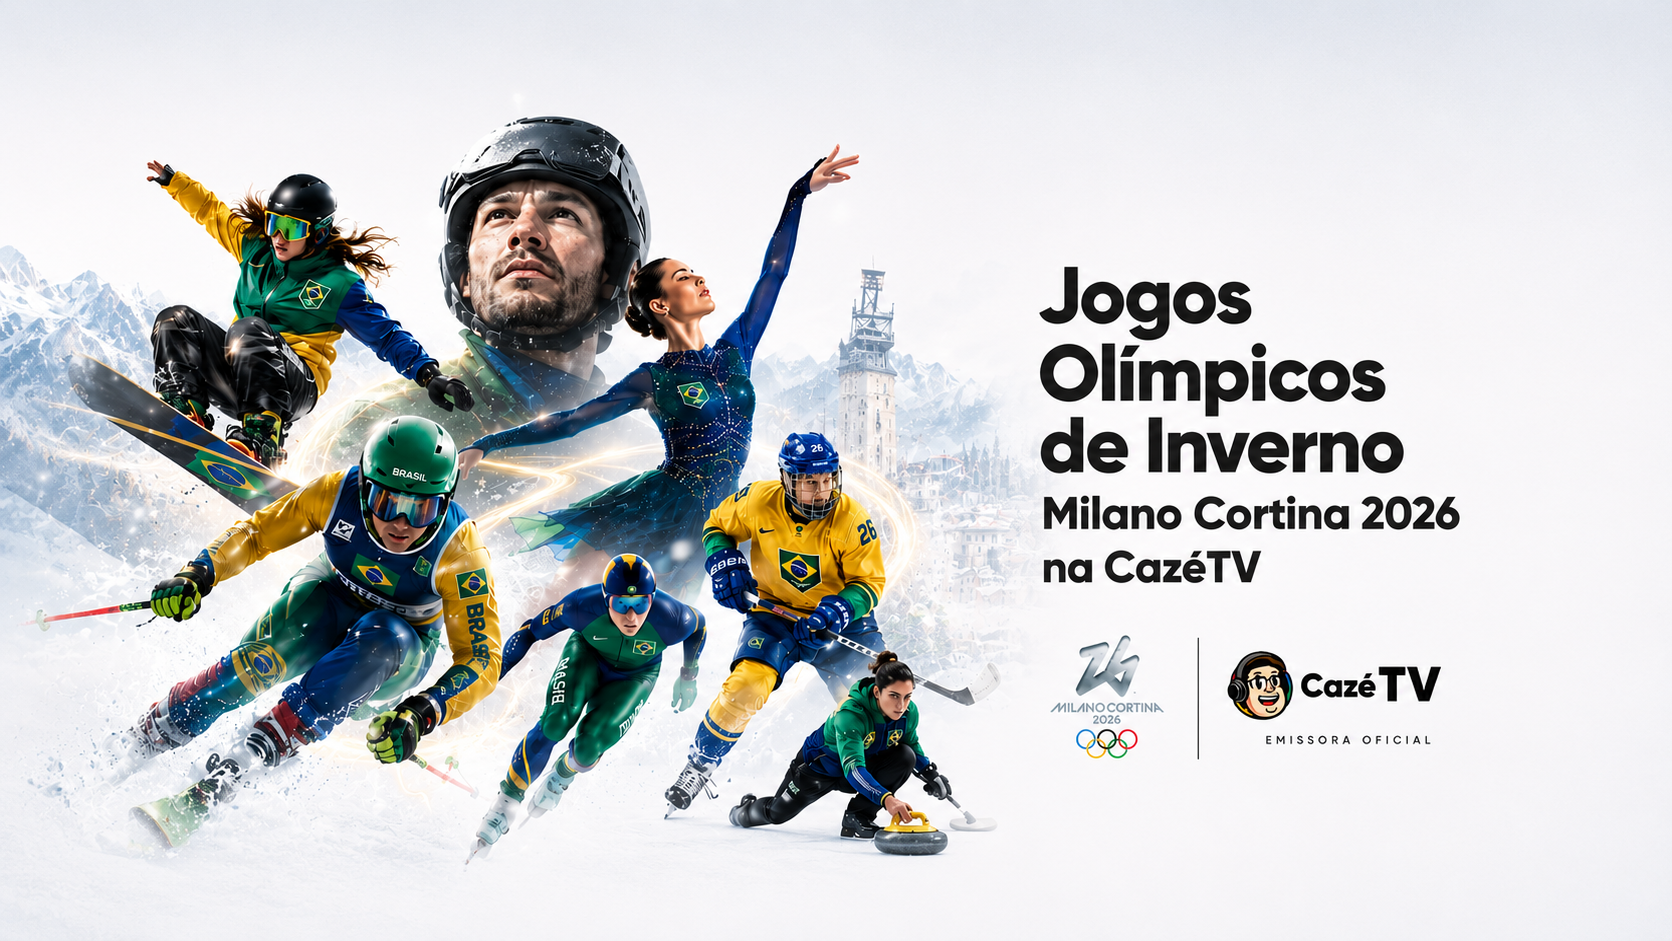
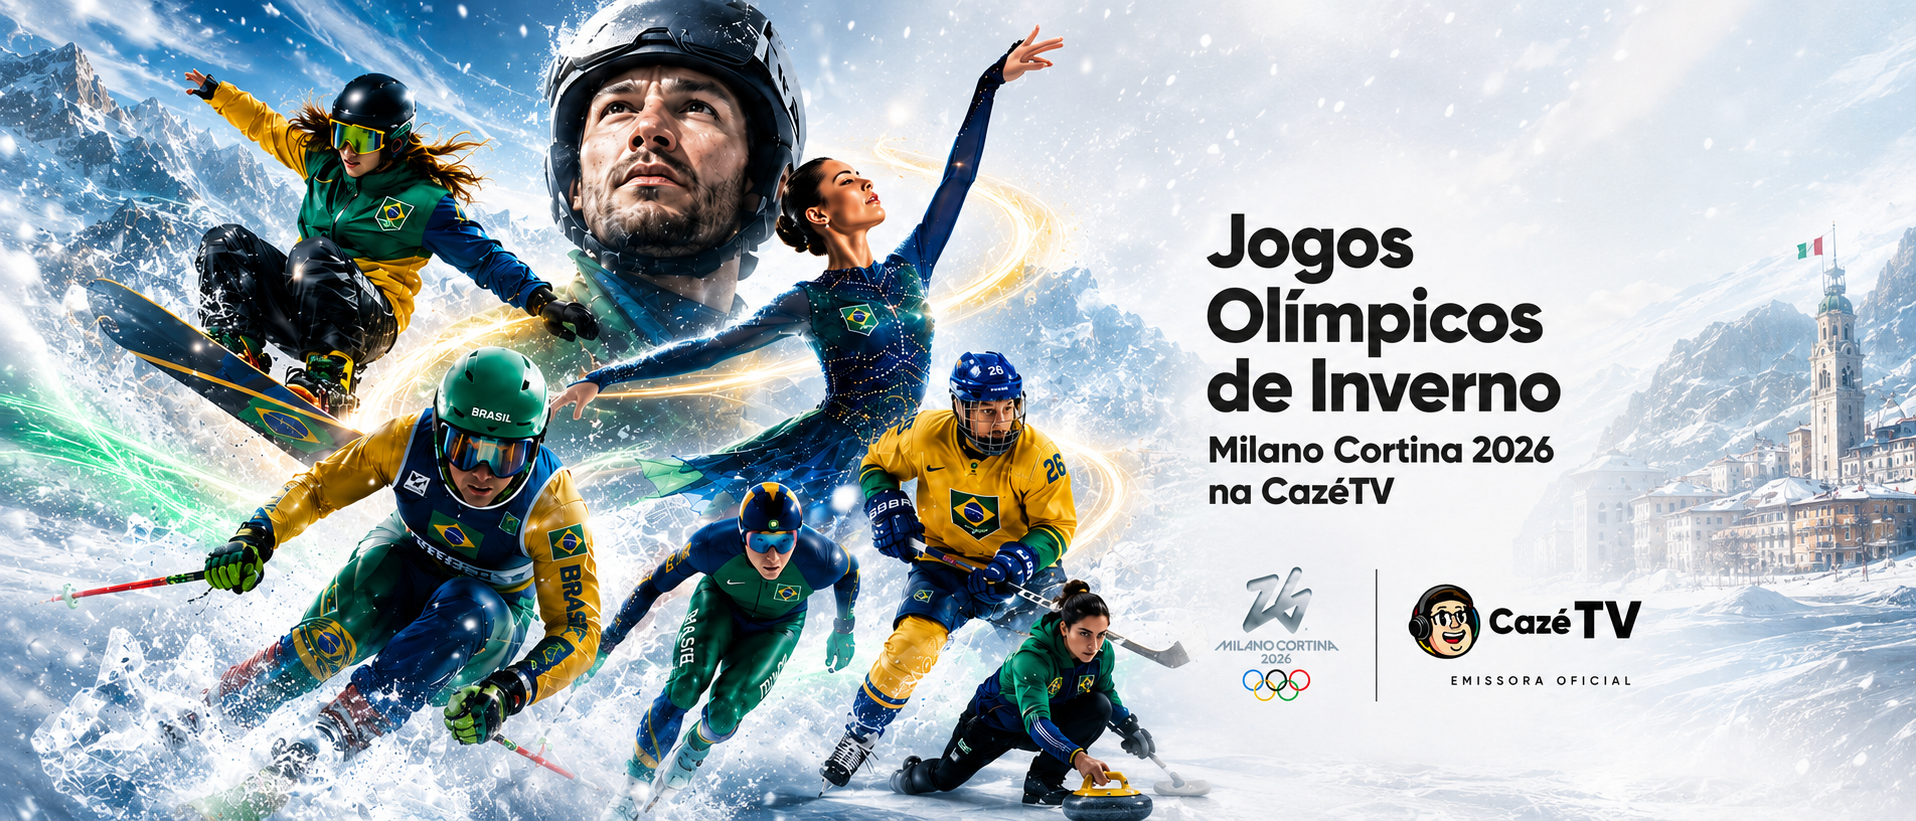
feat: adicionando dados das olimpiadas de inverno 2026

diff --git a/src/mocks/olimpiadas.js b/src/mocks/olimpiadas.js
@@ -81,6 +81,33 @@ export const featuredAthletes = [
     }
 ];
 
+export const featuredAthletes2026 = [
+  {
+    id: 1,
+    name: "Lucas Pinheiro Braathen",
+    modality: "Esqui Alpino — Slalom Gigante",
+    country: "Brasil",
+    medals: ["gold"],
+    image: "https://www.bloomberglinea.com/resizer/v2/W3STI4LZLRGOZOBWO76YZRZDOI.jpg?auth=d007cfcdc69399dda4e0a8fa804b04b73c69d7a801912032bfa8df68add00674&width=800&height=516&quality=80&smart=true",
+  },
+  {
+    id: 2,
+    name: "Nicole Silveira",
+    modality: "Skeleton",
+    country: "Brasil",
+    medals: [],
+    image: "https://forbes.com.br/wp-content/uploads/2026/02/nicole-silveira-1-860x484.jpg",
+  },
+  {
+    id: 3,
+    name: "Pat Burgener",
+    modality: "Snowboard Halfpipe",
+    country: "Brasil",
+    medals: [],
+    image: "https://img.dhost.cloud/ux5o5nwK8chyALIITEOSEQ_Om84=/770x480/smart/https://tdan.nyc3.digitaloceanspaces.com/images/fea77/e242c15c8c4aeb93062e073ff71c7b47dde.png?name=pat-burgener.png",
+  },
+];
+
 export const olympicsStats = [
     {
         id: 1,
@@ -110,4 +137,35 @@ export const olympicsStats = [
         suffix: "",
         label: "Modalidades olímpicas",
     },
+];
+
+export const olympicsStats2026 = [
+  {
+    id: 1,
+    value: 92,
+    prefix: "",
+    suffix: "",
+    label: "Países participantes",
+  },
+  {
+    id: 2,
+    value: 2880,
+    prefix: "",
+    suffix: "",
+    label: "Atletas competindo",
+  },
+  {
+    id: 3,
+    value: 116,
+    prefix: "",
+    suffix: "",
+    label: "Provas disputadas",
+  },
+  {
+    id: 4,
+    value: 16,
+    prefix: "",
+    suffix: "",
+    label: "Disciplinas olímpicas",
+  },
 ];

diff --git a/src/mocks/news.js b/src/mocks/news.js
@@ -149,6 +149,63 @@ Ambientalistas celebraram a conquista como um exemplo para cidades do mundo inte
   },
 ];
 
+export const noticiasOlimpiadasMock2026 = [
+  {
+    id: 1,
+    categoria: "Cerimônia de Abertura",
+    tagColor: "#1E40AF",
+    titulo: "San Siro recebe abertura histórica de Milão-Cortina 2026 com show de Bocelli e Mariah Carey",
+    descricao: "Pela primeira vez na história, a cerimônia foi dividida entre duas cidades: Milão e Cortina d'Ampezzo.",
+    corpo: `O estádio San Siro, um dos templos do futebol mundial, se transformou em palco olímpico na noite de 6 de fevereiro de 2026. A cerimônia de abertura dos Jogos Olímpicos de Inverno de Milão-Cortina foi um espetáculo à italiana — grandioso, elegante e emocionante.
+
+Pela primeira vez na história dos Jogos, a cerimônia foi distribuída entre duas cidades. Enquanto o desfile principal acontecia em Milão, atletas também marcharam simultaneamente em Cortina d'Ampezzo, Livigno e Predazzo, cada sede recebendo sua própria celebração. Ao final, duas piras olímpicas foram acesas: uma no Arco della Pace, em Milão, pelas mãos das lendas do esqui Deborah Compagnoni e Alberto Tomba, e outra em Cortina, acesa pela campeã olímpica Sofia Goggia.
+
+O espetáculo musical ficou por conta de Andrea Bocelli, que emocionou o estádio com "Nessun Dorma", de Puccini, e de Mariah Carey e Laura Pausini, que celebraram a diversidade cultural dos Jogos. Mais de 1.300 artistas e voluntários de 27 países participaram da produção, assinada pelo Balich Wonder Studio.
+
+O Brasil teve presença marcante na noite. Rebeca Andrade, a maior medalhista olímpica da história do país, foi escolhida para carregar a bandeira olímpica durante o desfile — uma das maiores honrarias da cerimônia. Nicole Silveira e Lucas Pinheiro Braathen desfilaram como porta-bandeiras da delegação brasileira, que entrou no San Siro com dança, passinho e muito verde e amarelo.
+
+A cerimônia foi considerada por especialistas uma das mais criativas e inovadoras da história dos Jogos de Inverno, combinando a riqueza cultural italiana com a modernidade de uma produção olímpica do século XXI.`,
+    tempo: "15 DIAS",
+    imagem: "https://s2-ge.glbimg.com/pK5M6bE42pacd9tlWHK9Jm7hgNo=/0x0:2152x1490/984x0/smart/filters:strip_icc()/i.s3.glbimg.com/v1/AUTH_bc8228b6673f488aa253bbcb03c80ec5/internal_photos/bs/2026/j/8/L0DUqSRnWkoMUZR1PnRQ/2026-02-06t192155z-1632113319-up1em261hsiib-rtrmadp-3-olympics-2026-opening.jpg",
+  },
+  {
+    id: 2,
+    categoria: "Esqui Alpino",
+    tagColor: "#DC2626",
+    titulo: "É ouro, Brasil! Lucas Pinheiro Braathen conquista a primeira medalha da América do Sul nos Jogos de Inverno",
+    descricao: "No dia dos namorados, o esquiador brasileiro-norueguês fez história na pista Stelvio e levou o Brasil ao topo do mundo.",
+    corpo: `O Brasil nunca tinha subido ao pódio de uns Jogos Olímpicos de Inverno. Em 34 anos de participação, a melhor marca era um nono lugar. Tudo mudou em 14 de fevereiro de 2026 — e não poderia ter sido num dia mais simbólico: o Dia dos Namorados.
+
+Lucas Pinheiro Braathen desceu a pista Stelvio, em Bormio, como se a neve fosse sua. Na primeira bateria, registrou 1min13s92 — quase um segundo à frente do favorito suíço Marco Odermatt, bicampeão mundial e principal candidato ao ouro. Na segunda descida, controlou a vantagem com frieza e cruzou a linha com tempo total de 2min25s00, garantindo o ouro de forma incontestável.
+
+Odermatt ficou com a prata e Loïc Meillard com o bronze. O nível técnico foi altíssimo — o que tornou a vitória ainda mais expressiva. Braathen não apenas ganhou. Ele dominou.
+
+Nascido em Oslo, filho de pai norueguês e mãe brasileira, Lucas carregou nas costas a trajetória improvável de quem trocou a bandeira da Noruega — país onde já havia conquistado o Globo de Cristal do slalom em 2023 — pelo verde e amarelo do Brasil. Desde 2024 vestindo a camisa brasileira, ele prometeu trazer o Brasil ao pódio de inverno. E cumpriu, no mais alto degrau.
+
+A emoção tomou conta quando o Hino Nacional Brasileiro começou a tocar no San Siro enquanto Braathen subia ao lugar mais alto do pódio. "Eu e o Brasil não estávamos aqui só para participar. Estávamos aqui para fazer a diferença", disse o campeão. A imagem dele cantando o hino com os olhos cheios de lágrimas já entrou para a história do esporte brasileiro.`,
+    tempo: "8 DIAS",
+    imagem: "https://mtesporte.com.br/wp-content/uploads/2026/02/lucas-696x368.jpg",
+  },
+  {
+    id: 3,
+    categoria: "Milão-Cortina 2026",
+    tagColor: "#22C55E",
+    titulo: "Ski mountaineering estreia nos Jogos e abre nova era para o esporte olímpico de inverno",
+    descricao: "Nova modalidade combina subida e descida de montanha e conquistou o público com seu formato emocionante e inédito.",
+    corpo: `Entre todas as novidades de Milão-Cortina 2026, uma se destacou pelo impacto visual e pelo ineditismo: a estreia do ski mountaineering — o skimo — como esporte olímpico. A modalidade, popular nas regiões alpinas da Europa mas pouco conhecida pelo grande público, conquistou espectadores do mundo inteiro com um formato simples e fascinante.
+
+A lógica do skimo é direta: os atletas sobem e descem montanhas o mais rápido possível, alternando entre esquis e percursos a pé. A prova de sprint, com largadas individuais e eliminatórias, entregou momentos de adrenalina pura. Já o revezamento misto colocou duplas de países diferentes dividindo a mesma corrida — um formato colaborativo raro no universo olímpico individual.
+
+Foram distribuídas medalhas em quatro provas: sprint masculino, sprint feminino, revezamento misto e, como estreia, também no formato individual de longa distância. A Suíça e a França dominaram o pódio nas primeiras disputas, confirmando a tradição alpina na modalidade.
+
+A inclusão do skimo nos Jogos foi aprovada pelo COI em 2021 e representou um esforço de modernização do programa olímpico de inverno. Com perfil jovem e forte presença nas redes sociais, a modalidade atraiu um público diferente — e saiu de Milão-Cortina com uma base de fãs muito maior do que tinha quando chegou.
+
+Para os organizadores, o saldo foi amplamente positivo. "O skimo mostrou que é possível trazer emoção pura sem abrir mão da tradição olímpica", afirmou um porta-voz da federação internacional da modalidade. A expectativa é que Los Angeles 2028 — os próximos Jogos de Verão — inspire outras modalidades urbanas a seguir o mesmo caminho.`,
+    tempo: "20 DIAS",
+    imagem: "https://img.olympics.com/images/image/private/t_social_share_thumb/f_auto/v1769625908/primary/z61fipgl64s9cyirsc3h",
+  },
+];
+
 export const newsWorldCup = [
   {
     id: 1,

diff --git a/src/App.jsx b/src/App.jsx
@@ -11,10 +11,12 @@ import CartPage from './pages/CartPage/CartPage'
 import ChampionshipPage from './pages/ChampionshipPage/ChampionshipPage'
 import {brasileirao, libertadores, copaDoBrasil, paulista, mineiro, gauchao, carioca, sulAmericana} from './mocks/campeonatos'
 import NewsPage from './pages/NewsPage/NewsPage'
-import { noticiasOlimpiadasMock } from "../src/mocks/news.js";
+import { noticiasOlimpiadasMock, noticiasOlimpiadasMock2026 } from "../src/mocks/news.js";
 import imgHero from "../src/assets/olimpiadas/jogos_paris_2024.png";
-import { Summer2024 } from '../src/mocks/medalData.js';
-import { featuredAthletes } from '../src/mocks/olimpiadas.js';
+import imgHero2 from "../src/assets/olimpiadas/jogos_olimpicos.png";
+import { Summer2024, winter2026 } from '../src/mocks/medalData.js';
+import { featuredAthletes, featuredAthletes2026 } from '../src/mocks/olimpiadas.js';
+import { olympicsStats, olympicsStats2026 } from "../src/mocks/olimpiadas.js";
 
 function App() {
 
@@ -25,12 +27,11 @@ function App() {
         <Route path="/login" element={<LoginPage />}/>
         <Route path="/signup" element={<SignUpPage />}/>
         <Route path="/world-cup" element={<WorldCupPage />}/>
-        <Route path="/olympics/summer" element={<OlympicsPage image={imgHero} medalData={Summer2024} news={noticiasOlimpiadasMock} athletes={featuredAthletes} />}/>
-        <Route path="/olympics/winter" element={<OlympicsPage />}/>
+        <Route path="/olympics/summer" element={<OlympicsPage image={imgHero} medalData={Summer2024} news={noticiasOlimpiadasMock} athletes={featuredAthletes} stats={olympicsStats} />}/>
+        <Route path="/olympics/winter" element={<OlympicsPage image={imgHero2} medalData={winter2026} news={noticiasOlimpiadasMock2026} athletes={featuredAthletes2026} stats={olympicsStats2026}  />}/>
         <Route path="/historia/cazetv" element={<HistoriaPage />}/>
         <Route path="/shop" element={<ShopPage />}/>
         <Route path="/cart" element={<CartPage />}/>
-        {/* CAMPEONATOS */}
         <Route path="/brasileirao" element={<ChampionshipPage campeonato={brasileirao}/>}/>
         <Route path="/paulistao" element={<ChampionshipPage campeonato={paulista}/>}/>
         <Route path="/carioca" element={<ChampionshipPage campeonato={carioca}/>}/>

diff --git a/src/pages/OlympicsPage/OlympicsPage.jsx b/src/pages/OlympicsPage/OlympicsPage.jsx
@@ -8,9 +8,8 @@ import styles from "./OlympicsPage.module.css";
 import { useState } from "react";
 import FeaturedAthletes from "../../features/Olimpiadas/components/FeaturedAthletes/FeaturedAthletes.jsx";
 import OlympicsStats from "../../features/Olimpiadas/components/OlympicsStats/OlympicsStats.jsx";
-import { olympicsStats } from "../../mocks/olimpiadas.js";
 
-export default function OlympicsPage({image, medalData, news, athletes}) {
+export default function OlympicsPage({image, medalData, news, athletes, stats}) {
 
   return (
     <div className={styles.pageContainer}>
@@ -27,7 +26,7 @@ export default function OlympicsPage({image, medalData, news, athletes}) {
         </div>
       </section>
 
-      <OlympicsStats className={styles.olympicsStats} stats={olympicsStats} />
+      <OlympicsStats className={styles.olympicsStats} stats={stats} />
 
       <MedalTable edicao={medalData} />  
 